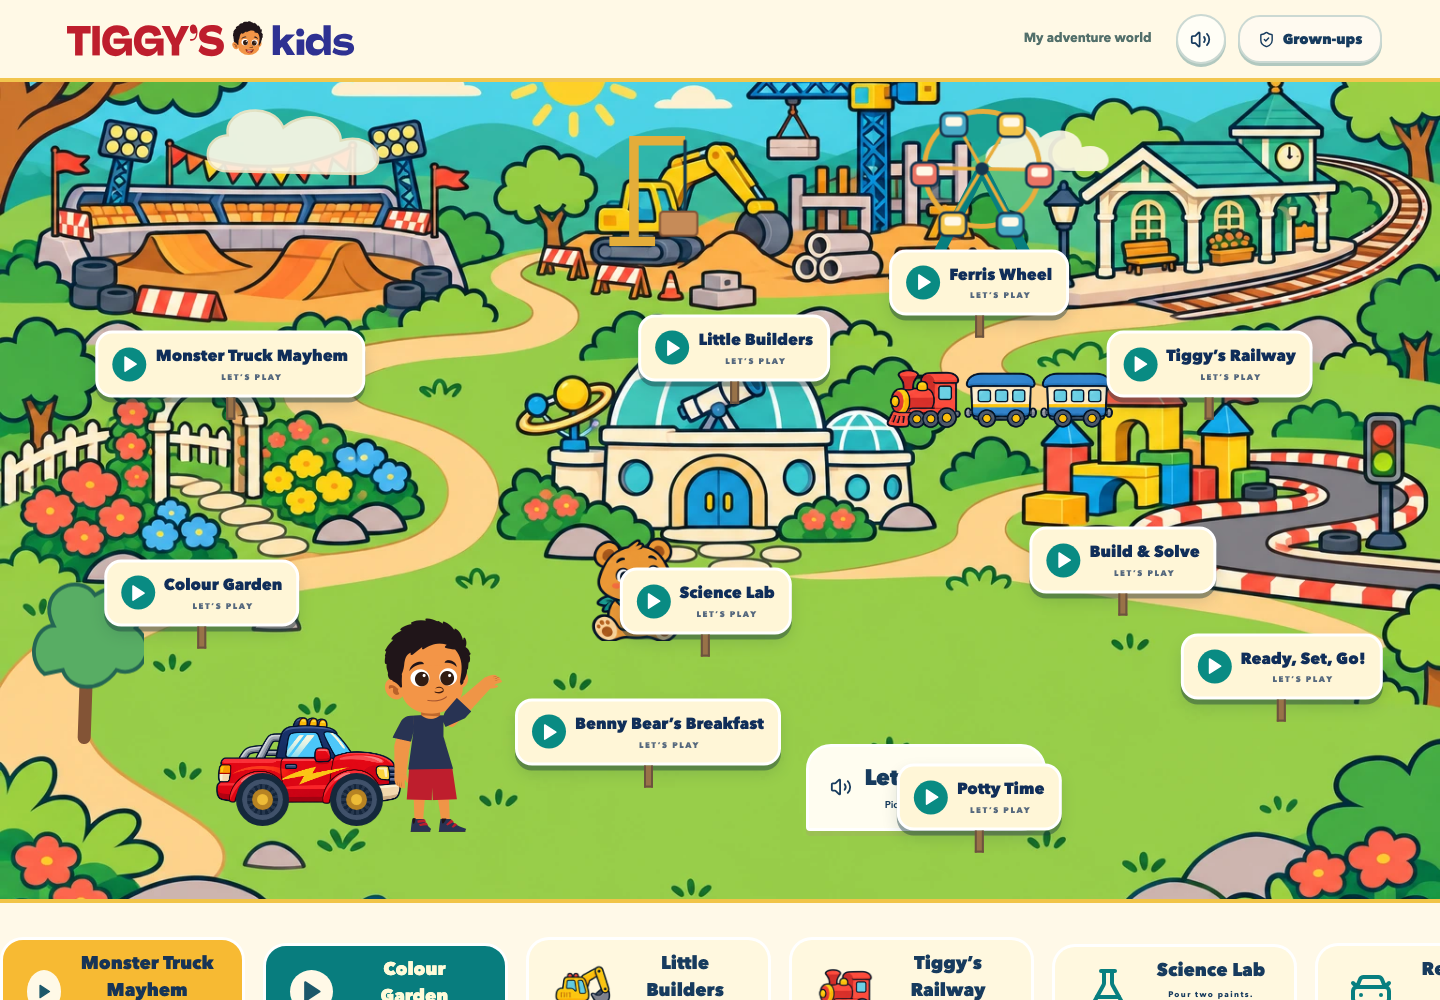
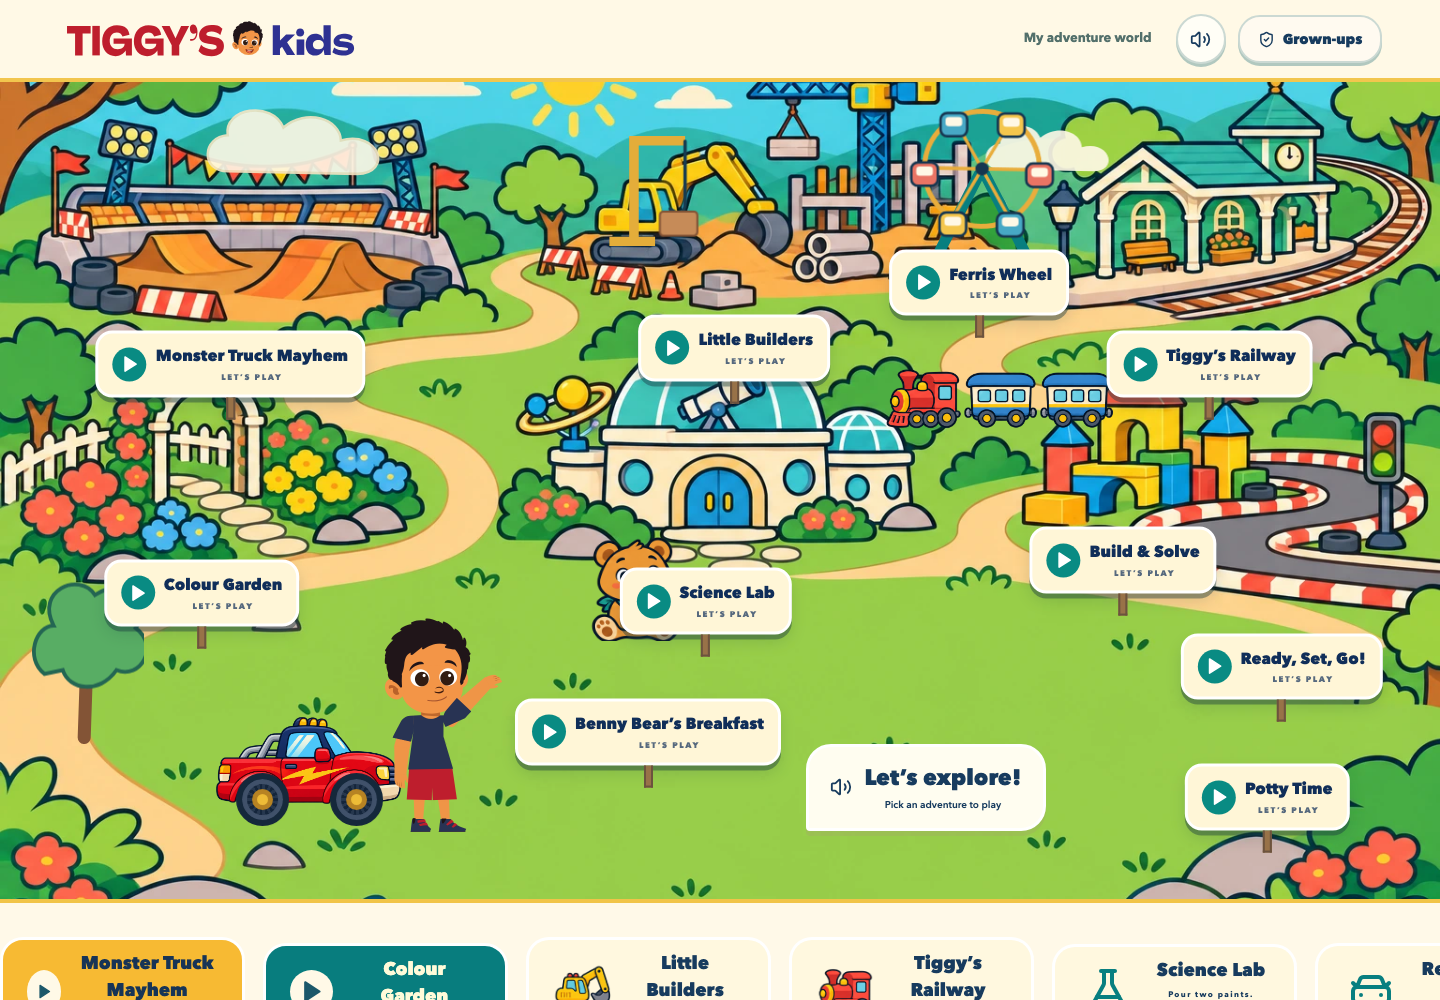
Keep the Potty Time map sign clear of the welcome control

Changed region(s): [[0.8125, 0.744, 0.9375, 0.868], [0.625, 0.744, 0.75, 0.868]]

diff --git a/src/components/World.tsx b/src/components/World.tsx
@@ -29,7 +29,7 @@ const activityThumbnails: Record<ActivityId, number> = {
 const areas = [
   { name: "Ferris Wheel", x: 68, y: 21, game: "ferris" },
   { name: "Benny Bear’s Breakfast", x: 45, y: 76, game: "breakfast" },
-  { name: "Potty Time", x: 68, y: 84, game: "potty" },
+  { name: "Potty Time", x: 88, y: 84, game: "potty" },
   { name: "Monster Truck Mayhem", x: 16, y: 31, game: "trucks" },
   { name: "Little Builders", x: 51, y: 29, game: "builders" },
   { name: "Tiggy’s Railway", x: 84, y: 31, game: "railway" },
